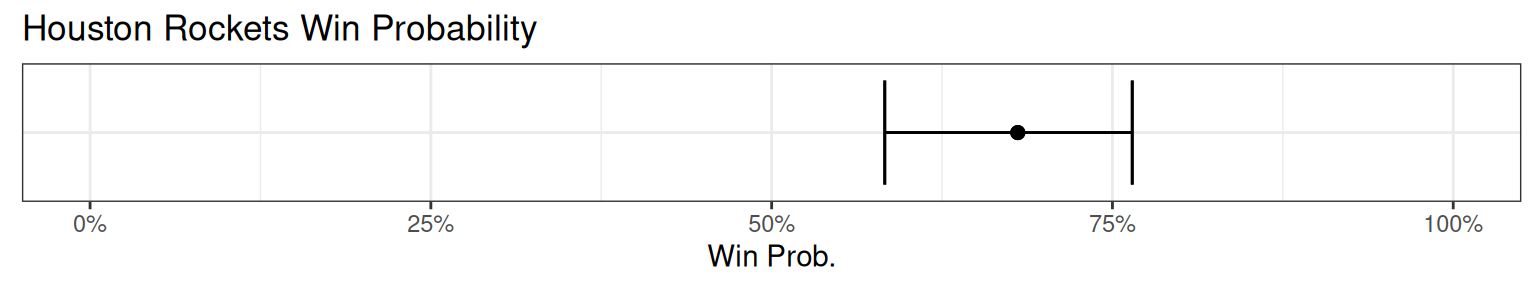
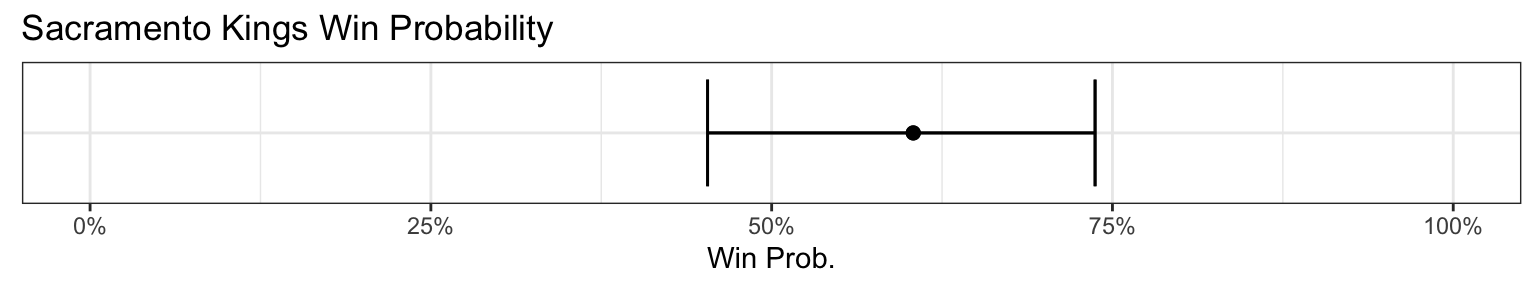
Built site for gh-pages

diff --git a/posts/homepage/daily_nba_compr/daily_nba_compr.html b/posts/homepage/daily_nba_compr/daily_nba_compr.html
@@ -227,154 +227,12 @@ gtag('config', 'G-H1P8FBJXVX', { 'anonymize_ip': true});
 
 
 <div class="tabset-margin-container"></div><div class="panel-tabset">
-<ul class="nav nav-tabs" role="tablist"><li class="nav-item" role="presentation"><a class="nav-link active" id="tabset-1-1-tab" data-bs-toggle="tab" data-bs-target="#tabset-1-1" role="tab" aria-controls="tabset-1-1" aria-selected="true">Today’s Games (February 13, 2025)</a></li><li class="nav-item" role="presentation"><a class="nav-link" id="tabset-1-2-tab" data-bs-toggle="tab" data-bs-target="#tabset-1-2" role="tab" aria-controls="tabset-1-2" aria-selected="false">Games February 14, 2025</a></li><li class="nav-item" role="presentation"><a class="nav-link" id="tabset-1-3-tab" data-bs-toggle="tab" data-bs-target="#tabset-1-3" role="tab" aria-controls="tabset-1-3" aria-selected="false">Games February 15, 2025</a></li></ul>
+<ul class="nav nav-tabs" role="tablist"><li class="nav-item" role="presentation"><a class="nav-link active" id="tabset-1-1-tab" data-bs-toggle="tab" data-bs-target="#tabset-1-1" role="tab" aria-controls="tabset-1-1" aria-selected="true">Today’s Games (February 14, 2025)</a></li><li class="nav-item" role="presentation"><a class="nav-link" id="tabset-1-2-tab" data-bs-toggle="tab" data-bs-target="#tabset-1-2" role="tab" aria-controls="tabset-1-2" aria-selected="false">Games February 15, 2025</a></li><li class="nav-item" role="presentation"><a class="nav-link" id="tabset-1-3-tab" data-bs-toggle="tab" data-bs-target="#tabset-1-3" role="tab" aria-controls="tabset-1-3" aria-selected="false">Games February 16, 2025</a></li></ul>
 <div class="tab-content">
 <div id="tabset-1-1" class="tab-pane active" role="tabpanel" aria-labelledby="tabset-1-1-tab">
 <div class="cell">
-<div class="cell-output-display">
-<table class="caption-top table table-sm table-striped small" data-quarto-postprocess="true">
-<thead>
-<tr class="header">
-<th style="text-align: left;" data-quarto-table-cell-role="th">Team</th>
-<th style="text-align: left;" data-quarto-table-cell-role="th">Win Prob.</th>
-</tr>
-</thead>
-<tbody>
-<tr class="odd">
-<td style="text-align: left;">Golden State Warriors</td>
-<td style="text-align: left;">32%</td>
-</tr>
-<tr class="even">
-<td style="text-align: left;">Houston Rockets</td>
-<td style="text-align: left;">68%</td>
-</tr>
-</tbody>
-</table>
-
-
-</div>
-<div class="cell-output-display">
-<div>
-<figure class="figure">
-<p><img src="daily_nba_compr_files/figure-html/unnamed-chunk-5-1.png" class="img-fluid figure-img" width="768"></p>
-</figure>
-</div>
-</div>
-<div class="cell-output-display">
-<table class="caption-top table table-sm table-striped small" data-quarto-postprocess="true">
-<thead>
-<tr class="header">
-<th style="text-align: left;" data-quarto-table-cell-role="th">Team</th>
-<th style="text-align: left;" data-quarto-table-cell-role="th">Win Prob.</th>
-</tr>
-</thead>
-<tbody>
-<tr class="odd">
-<td style="text-align: left;">Sacramento Kings</td>
-<td style="text-align: left;">74%</td>
-</tr>
-<tr class="even">
-<td style="text-align: left;">New Orleans Pelicans</td>
-<td style="text-align: left;">26%</td>
-</tr>
-</tbody>
-</table>
-
-
-</div>
-<div class="cell-output-display">
-<div>
-<figure class="figure">
-<p><img src="daily_nba_compr_files/figure-html/unnamed-chunk-5-2.png" class="img-fluid figure-img" width="768"></p>
-</figure>
-</div>
-</div>
-<div class="cell-output-display">
-<table class="caption-top table table-sm table-striped small" data-quarto-postprocess="true">
-<thead>
-<tr class="header">
-<th style="text-align: left;" data-quarto-table-cell-role="th">Team</th>
-<th style="text-align: left;" data-quarto-table-cell-role="th">Win Prob.</th>
-</tr>
-</thead>
-<tbody>
-<tr class="odd">
-<td style="text-align: left;">Miami Heat</td>
-<td style="text-align: left;">38%</td>
-</tr>
-<tr class="even">
-<td style="text-align: left;">Dallas Mavericks</td>
-<td style="text-align: left;">62%</td>
-</tr>
-</tbody>
-</table>
-
-
-</div>
-<div class="cell-output-display">
-<div>
-<figure class="figure">
-<p><img src="daily_nba_compr_files/figure-html/unnamed-chunk-5-3.png" class="img-fluid figure-img" width="768"></p>
-</figure>
-</div>
-</div>
-<div class="cell-output-display">
-<table class="caption-top table table-sm table-striped small" data-quarto-postprocess="true">
-<thead>
-<tr class="header">
-<th style="text-align: left;" data-quarto-table-cell-role="th">Team</th>
-<th style="text-align: left;" data-quarto-table-cell-role="th">Win Prob.</th>
-</tr>
-</thead>
-<tbody>
-<tr class="odd">
-<td style="text-align: left;">Oklahoma City Thunder</td>
-<td style="text-align: left;">73%</td>
-</tr>
-<tr class="even">
-<td style="text-align: left;">Minnesota Timberwolves</td>
-<td style="text-align: left;">27%</td>
-</tr>
-</tbody>
-</table>
-
-
-</div>
-<div class="cell-output-display">
-<div>
-<figure class="figure">
-<p><img src="daily_nba_compr_files/figure-html/unnamed-chunk-5-4.png" class="img-fluid figure-img" width="768"></p>
-</figure>
-</div>
-</div>
-<div class="cell-output-display">
-<table class="caption-top table table-sm table-striped small" data-quarto-postprocess="true">
-<thead>
-<tr class="header">
-<th style="text-align: left;" data-quarto-table-cell-role="th">Team</th>
-<th style="text-align: left;" data-quarto-table-cell-role="th">Win Prob.</th>
-</tr>
-</thead>
-<tbody>
-<tr class="odd">
-<td style="text-align: left;">Los Angeles Clippers</td>
-<td style="text-align: left;">77%</td>
-</tr>
-<tr class="even">
-<td style="text-align: left;">Utah Jazz</td>
-<td style="text-align: left;">23%</td>
-</tr>
-</tbody>
-</table>
-
-
-</div>
-<div class="cell-output-display">
-<div>
-<figure class="figure">
-<p><img src="daily_nba_compr_files/figure-html/unnamed-chunk-5-5.png" class="img-fluid figure-img" width="768"></p>
-</figure>
-</div>
+<div class="cell-output cell-output-stdout">
+<pre><code>No scheduled games</code></pre>
 </div>
 </div>
 </div>
@@ -397,16 +255,16 @@ gtag('config', 'G-H1P8FBJXVX', { 'anonymize_ip': true});
 <hr>
 <p>Data retrieved from <a href="https://www.basketball-reference.com/leagues/NBA_2024_games.html">Basketball Reference</a>. Code used to fit the model:</p>
 <div class="cell">
-<div class="sourceCode cell-code" id="cb3"><pre class="sourceCode numberSource r number-lines code-with-copy"><code class="sourceCode r"><span id="cb3-1"><a href="#cb3-1"></a>devtools<span class="sc">::</span><span class="fu">install_github</span>(<span class="at">repo =</span> <span class="st">"https://github.com/jameswolpe/compr"</span>)</span>
-<span id="cb3-2"><a href="#cb3-2"></a><span class="fu">library</span>(compr)</span>
-<span id="cb3-3"><a href="#cb3-3"></a>current_nba_pred <span class="ot">&lt;-</span> <span class="fu">comp_glm</span>(<span class="at">formula =</span> home_winner <span class="sc">~</span> <span class="dv">1</span>,</span>
-<span id="cb3-4"><a href="#cb3-4"></a>         <span class="at">data =</span> nba_results_df,</span>
-<span id="cb3-5"><a href="#cb3-5"></a>         <span class="at">p1 =</span> <span class="st">"home"</span>, </span>
-<span id="cb3-6"><a href="#cb3-6"></a>         <span class="at">p2 =</span> <span class="st">"away"</span>,</span>
-<span id="cb3-7"><a href="#cb3-7"></a>         <span class="at">p1_effects =</span> <span class="sc">~</span> <span class="dv">1</span>,</span>
-<span id="cb3-8"><a href="#cb3-8"></a>         <span class="at">p2_effects =</span> <span class="sc">~</span> <span class="dv">1</span>,</span>
-<span id="cb3-9"><a href="#cb3-9"></a>         <span class="at">ref_player =</span> <span class="st">"New York Knicks"</span>,</span>
-<span id="cb3-10"><a href="#cb3-10"></a>         <span class="at">family =</span> <span class="st">"binomial"</span>)</span></code><button title="Copy to Clipboard" class="code-copy-button"><i class="bi"></i></button></pre></div>
+<div class="sourceCode cell-code" id="cb4"><pre class="sourceCode numberSource r number-lines code-with-copy"><code class="sourceCode r"><span id="cb4-1"><a href="#cb4-1"></a>devtools<span class="sc">::</span><span class="fu">install_github</span>(<span class="at">repo =</span> <span class="st">"https://github.com/jameswolpe/compr"</span>)</span>
+<span id="cb4-2"><a href="#cb4-2"></a><span class="fu">library</span>(compr)</span>
+<span id="cb4-3"><a href="#cb4-3"></a>current_nba_pred <span class="ot">&lt;-</span> <span class="fu">comp_glm</span>(<span class="at">formula =</span> home_winner <span class="sc">~</span> <span class="dv">1</span>,</span>
+<span id="cb4-4"><a href="#cb4-4"></a>         <span class="at">data =</span> nba_results_df,</span>
+<span id="cb4-5"><a href="#cb4-5"></a>         <span class="at">p1 =</span> <span class="st">"home"</span>, </span>
+<span id="cb4-6"><a href="#cb4-6"></a>         <span class="at">p2 =</span> <span class="st">"away"</span>,</span>
+<span id="cb4-7"><a href="#cb4-7"></a>         <span class="at">p1_effects =</span> <span class="sc">~</span> <span class="dv">1</span>,</span>
+<span id="cb4-8"><a href="#cb4-8"></a>         <span class="at">p2_effects =</span> <span class="sc">~</span> <span class="dv">1</span>,</span>
+<span id="cb4-9"><a href="#cb4-9"></a>         <span class="at">ref_player =</span> <span class="st">"New York Knicks"</span>,</span>
+<span id="cb4-10"><a href="#cb4-10"></a>         <span class="at">family =</span> <span class="st">"binomial"</span>)</span></code><button title="Copy to Clipboard" class="code-copy-button"><i class="bi"></i></button></pre></div>
 </div>
 
 

diff --git a/posts.html b/posts.html
@@ -235,7 +235,7 @@ window.Quarto = {
 
 <div class="quarto-listing quarto-listing-container-default" id="listing-listing">
 <div class="list quarto-listing-default">
-<div class="quarto-post image-right" data-index="0" data-categories="TkJBJTJDUg==" data-listing-date-sort="1702598400000" data-listing-file-modified-sort="1739423396058" data-listing-date-modified-sort="NaN" data-listing-reading-time-sort="8" data-listing-word-count-sort="1579">
+<div class="quarto-post image-right" data-index="0" data-categories="TkJBJTJDUg==" data-listing-date-sort="1702598400000" data-listing-file-modified-sort="1739509784851" data-listing-date-modified-sort="NaN" data-listing-reading-time-sort="8" data-listing-word-count-sort="1579">
 <div class="thumbnail">
 <p><a href="./posts/homepage/daily_nba_compr/daily_nba_compr.html" class="no-external"></a></p><a href="./posts/homepage/daily_nba_compr/daily_nba_compr.html" class="no-external">
 <p><img loading="lazy" src="./posts/homepage/daily_nba_compr/jt_nba_photo.png" class="thumbnail-image"></p>
@@ -271,7 +271,7 @@ James Wolpe
 </a>
 </div>
 </div>
-<div class="quarto-post image-right" data-index="1" data-categories="UiUyQ2NvbXBy" data-listing-date-sort="1702252800000" data-listing-file-modified-sort="1739423396047" data-listing-date-modified-sort="NaN" data-listing-reading-time-sort="2" data-listing-word-count-sort="322">
+<div class="quarto-post image-right" data-index="1" data-categories="UiUyQ2NvbXBy" data-listing-date-sort="1702252800000" data-listing-file-modified-sort="1739509784840" data-listing-date-modified-sort="NaN" data-listing-reading-time-sort="2" data-listing-word-count-sort="322">
 <div class="thumbnail">
 <p><a href="./posts/compr/compr.html" class="no-external"></a></p><a href="./posts/compr/compr.html" class="no-external">
 <p><img loading="lazy" src="./posts/compr/r_package.png" class="thumbnail-image"></p>
@@ -307,7 +307,7 @@ James Wolpe
 </a>
 </div>
 </div>
-<div class="quarto-post image-right" data-index="2" data-listing-date-sort="1652659200000" data-listing-file-modified-sort="1739423396060" data-listing-date-modified-sort="NaN" data-listing-reading-time-sort="1" data-listing-word-count-sort="27">
+<div class="quarto-post image-right" data-index="2" data-listing-date-sort="1652659200000" data-listing-file-modified-sort="1739509784853" data-listing-date-modified-sort="NaN" data-listing-reading-time-sort="1" data-listing-word-count-sort="27">
 <div class="thumbnail">
 <p><a href="./posts/homepage/tennis_atp_directionals/atp_directionals.html" class="no-external"></a></p><a href="./posts/homepage/tennis_atp_directionals/atp_directionals.html" class="no-external">
 <p><img loading="lazy" src="./posts/homepage/tennis_atp_directionals/directionals_image.jpg" class="thumbnail-image"></p>
@@ -335,7 +335,7 @@ James Wolpe
 </a>
 </div>
 </div>
-<div class="quarto-post image-right" data-index="3" data-categories="UiUyQ3RpZHl2ZXJzZSUyQ2dncGxvdDI=" data-listing-date-sort="1652227200000" data-listing-file-modified-sort="1739423396060" data-listing-date-modified-sort="NaN" data-listing-reading-time-sort="9" data-listing-word-count-sort="1629">
+<div class="quarto-post image-right" data-index="3" data-categories="UiUyQ3RpZHl2ZXJzZSUyQ2dncGxvdDI=" data-listing-date-sort="1652227200000" data-listing-file-modified-sort="1739509784853" data-listing-date-modified-sort="NaN" data-listing-reading-time-sort="9" data-listing-word-count-sort="1629">
 <div class="thumbnail">
 <p><a href="./posts/homepage/imdb_friends_himym/imdb_friends_himym.html" class="no-external"></a></p><a href="./posts/homepage/imdb_friends_himym/imdb_friends_himym.html" class="no-external">
 <p><img loading="lazy" src="./posts/homepage/imdb_friends_himym/barney_blog.gif" class="thumbnail-image"></p>
@@ -374,7 +374,7 @@ James Wolpe
 </a>
 </div>
 </div>
-<div class="quarto-post image-right" data-index="4" data-listing-date-sort="1652227200000" data-listing-file-modified-sort="1739423396061" data-listing-date-modified-sort="NaN" data-listing-reading-time-sort="5" data-listing-word-count-sort="924">
+<div class="quarto-post image-right" data-index="4" data-listing-date-sort="1652227200000" data-listing-file-modified-sort="1739509784855" data-listing-date-modified-sort="NaN" data-listing-reading-time-sort="5" data-listing-word-count-sort="924">
 <div class="thumbnail">
 <p><a href="./posts/imdb_oscar_best_picture/imdb_oscar_best_picture.html" class="no-external"></a></p><a href="./posts/imdb_oscar_best_picture/imdb_oscar_best_picture.html" class="no-external">
 <p class="card-img-top"><img src="posts/imdb_oscar_best_picture/imdb_oscar_best_picture_files/figure-html/unnamed-chunk-3-1.png"  class="thumbnail-image card-img"/></p>
@@ -402,7 +402,7 @@ James Wolpe
 </a>
 </div>
 </div>
-<div class="quarto-post image-right" data-index="5" data-listing-date-sort="1652140800000" data-listing-file-modified-sort="1739423396061" data-listing-date-modified-sort="NaN" data-listing-reading-time-sort="9" data-listing-word-count-sort="1672">
+<div class="quarto-post image-right" data-index="5" data-listing-date-sort="1652140800000" data-listing-file-modified-sort="1739509784855" data-listing-date-modified-sort="NaN" data-listing-reading-time-sort="9" data-listing-word-count-sort="1672">
 <div class="thumbnail">
 <p><a href="./posts/stat113_greek_life/stat113_greek_life.html" class="no-external"></a></p><a href="./posts/stat113_greek_life/stat113_greek_life.html" class="no-external">
 <p class="card-img-top"><img src="posts/stat113_greek_life/stat113_greek_life_files/figure-html/unnamed-chunk-3-1.png"  class="thumbnail-image card-img"/></p>
@@ -430,7 +430,7 @@ James Wolpe
 </a>
 </div>
 </div>
-<div class="quarto-post image-right" data-index="6" data-listing-date-sort="1651968000000" data-listing-file-modified-sort="1739423396061" data-listing-date-modified-sort="NaN" data-listing-reading-time-sort="6" data-listing-word-count-sort="1145">
+<div class="quarto-post image-right" data-index="6" data-listing-date-sort="1651968000000" data-listing-file-modified-sort="1739509784855" data-listing-date-modified-sort="NaN" data-listing-reading-time-sort="6" data-listing-word-count-sort="1145">
 <div class="thumbnail">
 <p><a href="./posts/imdb_trailer_park_boys/imdb_trailer_park_boys.html" class="no-external"></a></p><a href="./posts/imdb_trailer_park_boys/imdb_trailer_park_boys.html" class="no-external">
 <p class="card-img-top"><img src="posts/imdb_trailer_park_boys/imdb_trailer_park_boys_files/figure-html/unnamed-chunk-5-1.png"  class="thumbnail-image card-img"/></p>

diff --git a/index.html b/index.html
@@ -228,7 +228,7 @@ Welcome to my personal website! I am a recent graduate with a degree in Data Sci
 <p>Some of my work</p>
 <div id="listing-listing-blog" class="quarto-listing quarto-listing-container-grid">
 <div class="list grid quarto-listing-cols-3">
-<div class="g-col-1" data-index="0" data-categories="TkJBJTJDUg==" data-listing-date-sort="1702598400000" data-listing-file-modified-sort="1739423396058" data-listing-date-modified-sort="NaN" data-listing-reading-time-sort="8" data-listing-word-count-sort="1579">
+<div class="g-col-1" data-index="0" data-categories="TkJBJTJDUg==" data-listing-date-sort="1702598400000" data-listing-file-modified-sort="1739509784851" data-listing-date-modified-sort="NaN" data-listing-reading-time-sort="8" data-listing-word-count-sort="1579">
 <a href="./posts/homepage/daily_nba_compr/daily_nba_compr.html" class="quarto-grid-link">
 <div class="quarto-grid-item card h-100 card-left">
 <p class="card-img-top">
@@ -253,7 +253,7 @@ Dec 15, 2023
 </div>
 </a>
 </div>
-<div class="g-col-1" data-index="1" data-listing-date-sort="1652659200000" data-listing-file-modified-sort="1739423396060" data-listing-date-modified-sort="NaN" data-listing-reading-time-sort="1" data-listing-word-count-sort="27">
+<div class="g-col-1" data-index="1" data-listing-date-sort="1652659200000" data-listing-file-modified-sort="1739509784853" data-listing-date-modified-sort="NaN" data-listing-reading-time-sort="1" data-listing-word-count-sort="27">
 <a href="./posts/homepage/tennis_atp_directionals/atp_directionals.html" class="quarto-grid-link">
 <div class="quarto-grid-item card h-100 card-left">
 <p class="card-img-top">
@@ -278,7 +278,7 @@ May 16, 2022
 </div>
 </a>
 </div>
-<div class="g-col-1" data-index="2" data-categories="UiUyQ3RpZHl2ZXJzZSUyQ2dncGxvdDI=" data-listing-date-sort="1652227200000" data-listing-file-modified-sort="1739423396060" data-listing-date-modified-sort="NaN" data-listing-reading-time-sort="9" data-listing-word-count-sort="1629">
+<div class="g-col-1" data-index="2" data-categories="UiUyQ3RpZHl2ZXJzZSUyQ2dncGxvdDI=" data-listing-date-sort="1652227200000" data-listing-file-modified-sort="1739509784853" data-listing-date-modified-sort="NaN" data-listing-reading-time-sort="9" data-listing-word-count-sort="1629">
 <a href="./posts/homepage/imdb_friends_himym/imdb_friends_himym.html" class="quarto-grid-link">
 <div class="quarto-grid-item card h-100 card-left">
 <p class="card-img-top">
